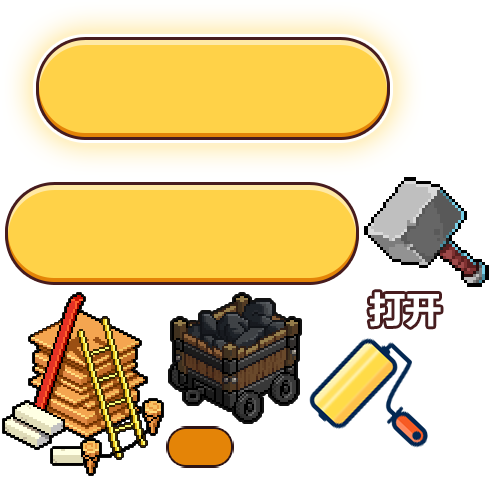
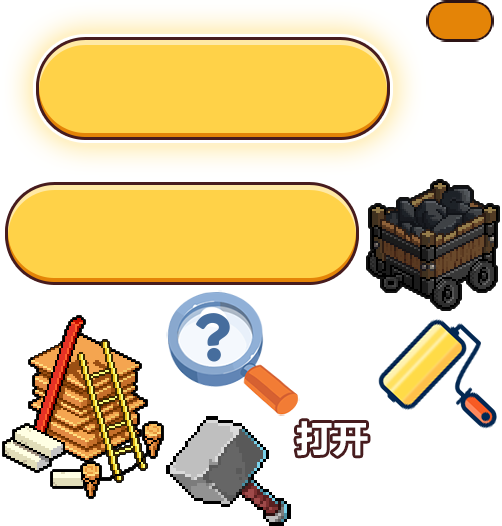
修改点击家具报错问题

diff --git a/src/pica/render/ui/CutInMenu/CutInMenuPanel.ts b/src/pica/render/ui/CutInMenu/CutInMenuPanel.ts
@@ -1,7 +1,8 @@
 import { op_client } from "pixelpai_proto";
-import { BasePanel, UiManager } from "gamecoreRender";
+import { BasePanel, ButtonEventDispatcher, UiManager } from "gamecoreRender";
 import { ModuleName } from "structure";
 import { Handler, i18n, UIHelper } from "utils";
+import { Button, ClickEvent } from "apowophaserui";
 export class CutInMenuPanel extends BasePanel {
     private rightPopButton: RightPopContainer;
     private mapPop: Map<any, any> = new Map();
@@ -54,6 +55,8 @@ export class CutInMenuPanel extends BasePanel {
             (<WorkPopContainer>(this.rightPopButton)).setCount(data);
         } else if (type === "minecar") {
 
+        } else if (type === "surver") {
+
         }
     }
 
@@ -96,6 +99,7 @@ class RightPopContainer extends Phaser.GameObjects.Container {
     protected isPlaying: boolean = false;
     protected timeID: any;
     protected tween: Phaser.Tweens.Tween;
+    protected arrow: ButtonEventDispatcher;
     constructor(scene: Phaser.Scene, width: number, key: string, dpr: number) {
         super(scene);
         this.dpr = dpr;
@@ -119,7 +123,14 @@ class RightPopContainer extends Phaser.GameObjects.Container {
         }, false).setOrigin(0.5);
         this.text.setFontStyle("bold");
         this.text.setStroke("#2D1415", 3 * dpr);
-        this.add([this.bgSprite, this.minecarbg, this.imgIcon, this.text]);
+        this.arrow = new ButtonEventDispatcher(this.scene, 0, 0);
+        this.arrow.setSize(25 * dpr, 31 * dpr);
+        const arrowIcon = this.scene.make.image({ key: this.key, frame: "arow" });
+        this.arrow.add(arrowIcon);
+        this.arrow.enable = true;
+        this.arrow.on(ClickEvent.Tap, this.onTakeBack, this);
+        this.arrow.setPosition(-this.minecarbg.width * 0.5 + 10 * dpr, 0);
+        this.add([this.bgSprite, this.minecarbg, this.imgIcon, this.text, this.arrow]);
         this.tween = this.scene.tweens.add({
             targets: this.bgSprite,
             alpha: { value: 0, duration: 500, ease: "Power1", yoyo: true },
@@ -194,21 +205,13 @@ class RightPopContainer extends Phaser.GameObjects.Container {
 class MinePopContainer extends RightPopContainer {
     constructor(scene: Phaser.Scene, width: number, key: string, dpr: number) {
         super(scene, width, key, dpr);
-        const arrow = this.scene.make.image({ key: this.key, frame: "arow" });
-        arrow.texture.setFilter(Phaser.Textures.FilterMode.LINEAR);
-        const arrowcon = scene.make.container(undefined, false);
-        arrowcon.setSize(25 * dpr, 31 * dpr);
-        arrowcon.add(arrow);
-        arrowcon.setPosition(-this.minecarbg.width * 0.5 + 10 * dpr, 0);
-        this.add(arrowcon);
-        arrowcon.on("pointerup", this.onTakeBack, this);
-        arrowcon.setInteractive();
+
     }
 }
 
 class WorkPopContainer extends MinePopContainer {
     protected countTex: Phaser.GameObjects.Text;
-    constructor(scene: Phaser.Scene, width: number, key: string, dpr: number) {
+    constructor(scene: Phaser.Scene, width: number, key: string, frame: string, title: string, dpr: number) {
         super(scene, width, key, dpr);
         this.imgIcon.x = -22 * dpr;
         this.text.x = this.imgIcon.x;
@@ -266,15 +269,10 @@ class WorkPopContainer extends MinePopContainer {
 class EditorPopContainer extends RightPopContainer {
     constructor(scene: Phaser.Scene, width: number, key: string, dpr: number) {
         super(scene, width, key, dpr);
-        this.bgSprite.visible = false;
-        this.text.visible = false;
-        // this.text.x -= 2 * dpr;
-        // this.text.y = 0;
-        // this.text.setText(i18n.t("common.editor"));
-        // this.text.setStyle(UIHelper.brownishStyle(dpr, 19));
-        // this.text.setStroke(undefined, 0);
-        this.minecarbg.x += 10 * dpr;
+        this.text.setText(i18n.t("common.editor"));
         this.setIconFrame("edit_icon");
-        this.imgIcon.y = 0;
+        this.imgIcon.y = -12 * dpr;
+        this.imgIcon.x -= 3 * dpr;
+        this.text.x = this.imgIcon.x;
     }
 }

diff --git a/src/pica/render/ui/PicaIllustrated/PicaIllustratedItem.ts b/src/pica/render/ui/PicaIllustrated/PicaIllustratedItem.ts
@@ -18,7 +18,7 @@ export class IllustratedItem extends ItemButton {
         this.star.y = this.codeTex.y;
         this.star.visible = false;
         this.surveyImg = this.scene.make.image({ key: UIAtlasName.illustrate, frame: "illustrate_survey_nohave" });
-        this.add([this.codeTex, this.star,this.surveyImg]);
+        this.add([this.codeTex, this.star, this.surveyImg]);
         for (const item of this.list) {
             const temp = <Phaser.GameObjects.Container>item;
             temp.y -= 10 * dpr;
@@ -30,7 +30,16 @@ export class IllustratedItem extends ItemButton {
         if (item) {
             this.codeTex.text = item.code;
             const status = item["status"];
-            this.surveyImg.visible = status === 1 ? true : false;
+            if (status === 1) {
+                this.bg.setTexture(UIAtlasName.illustrate, "illustrate_survey_nohave");
+                this.itemIcon.alpha = 0.4;
+                this.star.alpha = 0.4;
+            } else {
+                this.bg.setTexture(UIAtlasName.uicommon, this.bgFrame);
+                this.itemIcon.alpha = 1;
+                this.star.alpha = 1;
+            }
+            this.surveyImg.visible = false;
         }
     }
 }

diff --git a/src/pica/game/config/base.data.config.manager.ts b/src/pica/game/config/base.data.config.manager.ts
@@ -480,12 +480,16 @@ export class BaseDataConfigManager extends BaseConfigManager {
     public getFurnitureGroup(id: string) {
         const data: FurnitureGroup = this.getConfig(BaseDataType.furnituregroup);
         const group: IFurnitureGroup = data.get(id);
-        const obj: any = {};
-        ObjectAssign.excludeAssign(obj, group);
-        for (let i = 0; i < obj.group.length; i++) {
-            obj.group[i] = this.getItemBaseByID(obj.group[i]);
+        if (group) {
+            const obj: any = {};
+            ObjectAssign.excludeAssign(obj, group);
+            for (let i = 0; i < obj.group.length; i++) {
+                obj.group[i] = this.getItemBaseByID(obj.group[i]);
+            }
+            return obj;
         }
-        return obj;
+        return undefined;
+
     }
 
     public getFurnitureGroupBySN(sn: string) {

diff --git a/src/game/data.manager/scene.data.manager.ts b/src/game/data.manager/scene.data.manager.ts
@@ -142,9 +142,10 @@ export class SceneDataManager extends BasePacketHandler {
     private onUnlockDoneHandler(packge: PBpacket) {
         const content: op_client.OP_VIRTUAL_WORLD_REQ_CLIENT_UNLOCK_DONE = packge.content;
         const ele = (<BaseDataConfigManager>this.game.configManager).getElementData(content.eid);
-        const group = (<any>this.game.configManager).getFurnitureGroupBySN(ele.sn);
+        const config = (<any>this.game.configManager);
+        const group = config.getFurnitureGroupBySN(ele.sn);
         if (group)
-            this.game.emitter.emit(EventType.SCENE_SHOW_UI, ModuleName.PICAREPAIRCHOOSE_NAME, group);
+            this.game.emitter.emit(EventType.SCENE_SHOW_UI, ModuleName.PICAREPAIRCHOOSE_NAME, { id: content.eid, group });
     }
 
     get curRoomID() {

diff --git a/src/game/room/elementaction/furit.element.change.action.ts b/src/game/room/elementaction/furit.element.change.action.ts
@@ -8,8 +8,8 @@ export class FuritElementChangeAction extends ElementBaseAction {
         if (this.data.nodeType === 3 && this.getActionData("frozenType") === "FROZEN") {
             return false;
         }
-        const group = (<any>this.game.configManager).getFurnitureGroupBySN(this.data.sn);
-        if (group)
-            this.game.emitter.emit(EventType.SCENE_SHOW_UI, ModuleName.PICAREPAIRCHOOSE_NAME, { id: this.data.id, group });
+        // const group = (<any>this.game.configManager).getFurnitureGroupBySN(this.data.sn);
+        // if (group)
+        //     this.game.emitter.emit(EventType.SCENE_SHOW_UI, ModuleName.PICAREPAIRCHOOSE_NAME, { id: this.data.id, group });
     }
 }

diff --git a/src/pica/render/ui/PicaIllustrated/PicaFuriniDetailPanel.ts b/src/pica/render/ui/PicaIllustrated/PicaFuriniDetailPanel.ts
@@ -39,7 +39,7 @@ export class PicaFuriniDetailPanel extends Phaser.GameObjects.Container {
     init() {
         this.backgrand = this.scene.make.graphics(undefined, false);
         this.backgrand.fillStyle(0x000000, 0.66);
-        this.backgrand.fillRect(-this.width * 0.75, -this.height * 0.75, this.width * 1.5, this.height * 1.5);
+        this.backgrand.fillRect(-this.width * 0.75, -this.height * 1.5, this.width * 1.5, this.height * 3);
         const bg = new NineSlicePatch(this.scene, 0, 0, this.width, this.height, UIAtlasName.uicommon1, "bg", {
             left: 20 * this.dpr,
             top: 20 * this.dpr,
